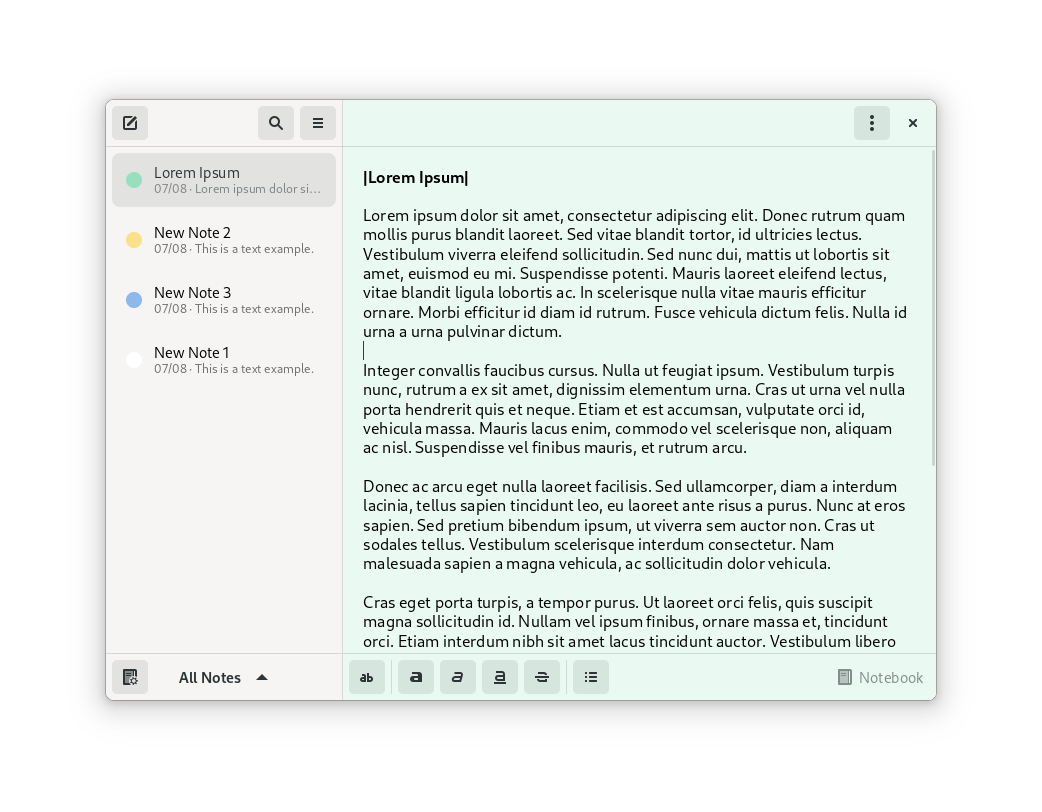
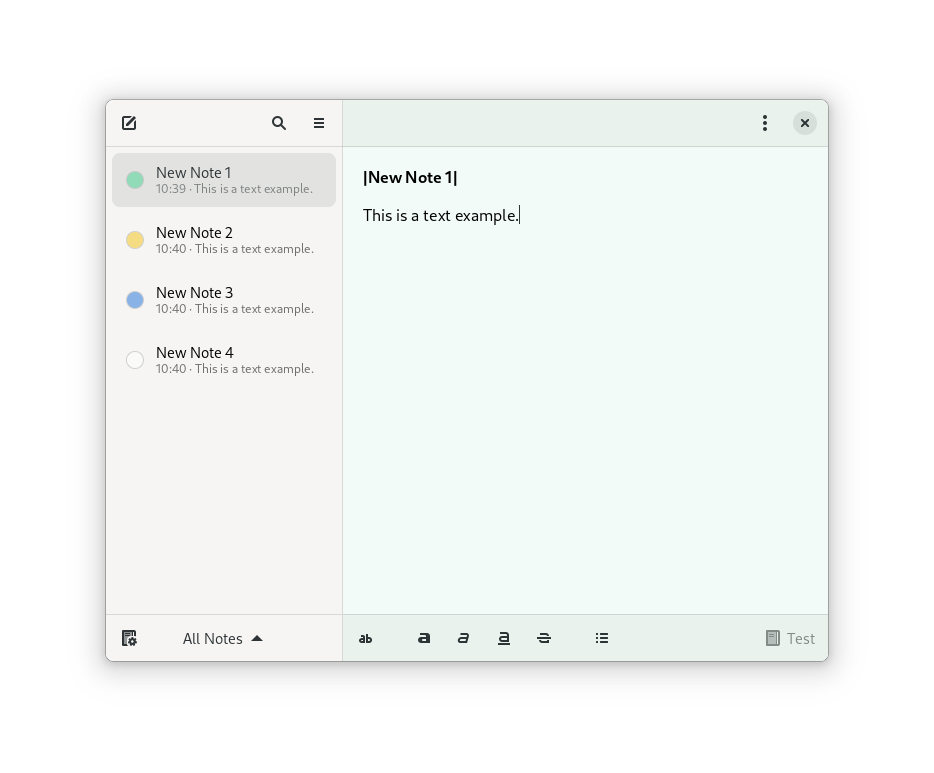
* - start work on libadwaita recent button changes, small UI changes

Changed region(s): [[0.0931, 0.1242, 0.9004, 0.8693], [0.2484, 0.1242, 0.3105, 0.1863]]

diff --git a/data/app.css b/data/app.css
@@ -4,42 +4,36 @@
 
 .flat-button {
   background: none;
-  margin: 0;
   font-weight: 400;
 }
 
-.flat-button:hover,
-.flat-button:checked {
+.flat-button:hover {
   background: alpha(@theme_fg_color, 0.1);
 }
 
-.flat-button:active,
-.flat-button:checked:active {
+.flat-button:active {
   background: alpha(@theme_fg_color, 0.2);
 }
 
 .rename-button .toggle {
-  border-radius: 5px;
   background: none;
+  font-weight: 400;
 }
 
-.rename-button .toggle:hover,
-.rename-button .toggle:checked {
+.rename-button .toggle:hover {
   background: alpha(@theme_fg_color, 0.1);
 }
 
-.rename-button .toggle:active,
-.rename-button .toggle:checked:active {
+.rename-button .toggle:active {
   background: alpha(@theme_fg_color, 0.2);
 }
 
 .circular {
-  border: 1px solid alpha(@theme_fg_color, 0.2);
+  box-shadow: inset 0 0 3px 0 alpha(@theme_fg_color, 0.4);
 }
 
 .circular:hover {
-  border: 1px solid @theme_selected_bg_color;
-  box-shadow: inset 0 0 2px 0 alpha(@theme_fg_color, 0.5);
+  box-shadow: inset 0 0 3px 0 alpha(@theme_fg_color, 0.8);
 }
 
 .notejot-stitle,
@@ -102,29 +96,26 @@
   transition: 100ms ease-in-out;
 }
 
-.notejot-sbar:backdrop {
-  opacity: 0.66;
+.notejot-sbar {
+  background: @theme_bg_color;
 }
 
 .empty-state {
   background-color: @theme_bg_color;
 }
 
-.empty-state:backdrop {
-  background: @theme_base_color;
-}
-
 .notejot-view {
   background: @theme_bg_color;
 }
 
-.notejot-view:backdrop {
-  background: @theme_base_color;
+.notejot-searchbar {
+  background: alpha(@theme_fg_color, 0.05);
+  border-bottom: 1px solid @borders;
 }
 
-.notejot-searchbar {
-  background: alpha(@theme_fg_color, 0.1);
-  transition: 100ms ease-in-out;
+.notejot-searchbar entry {
+  border: 1px solid @borders;
+  border-radius: 9999px;
 }
 
 .dark {
